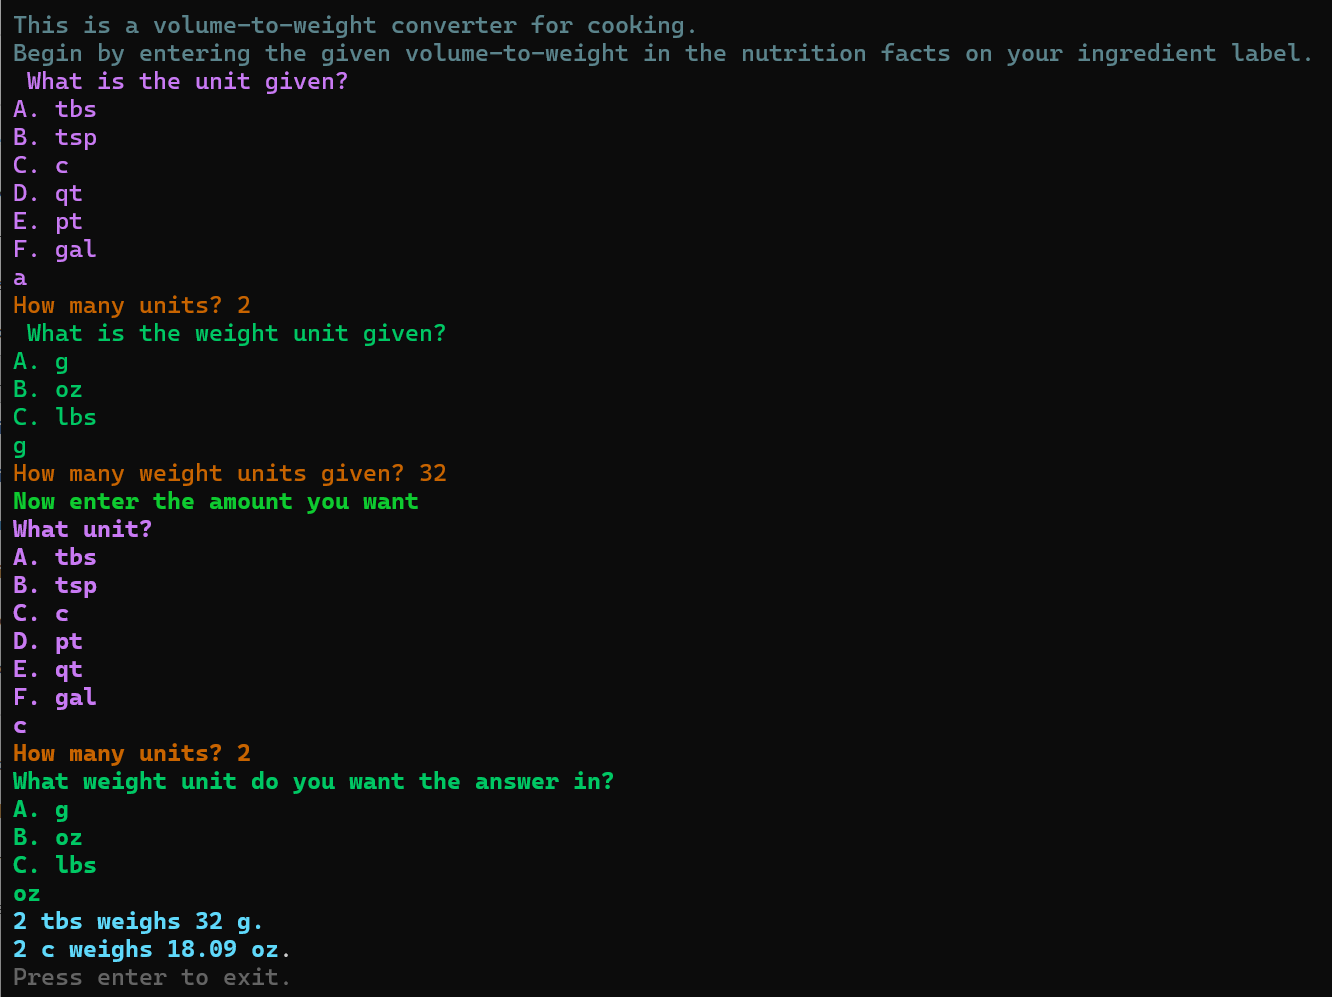
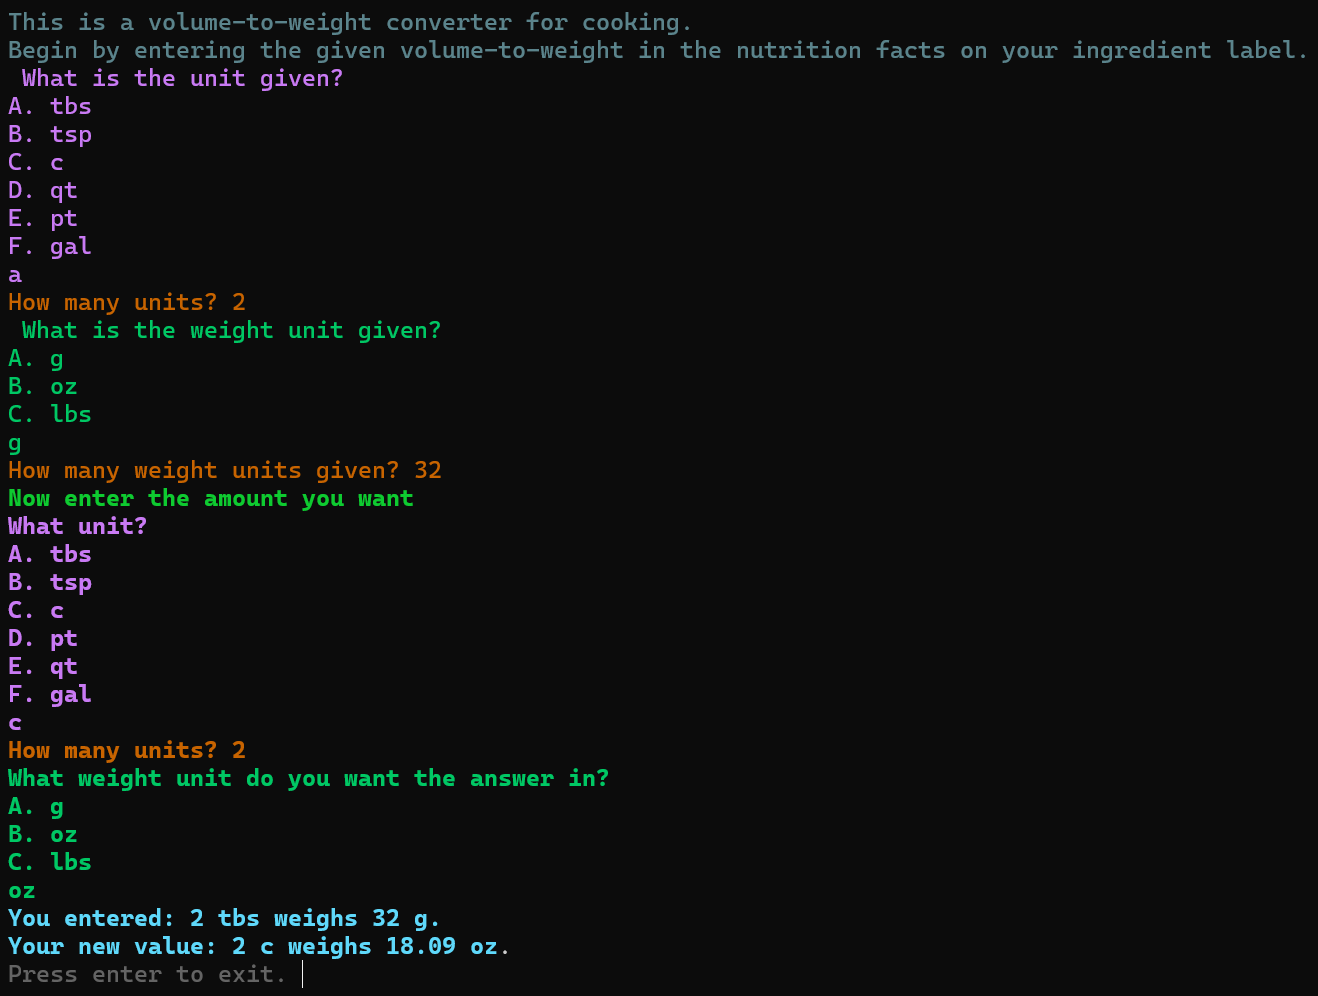
Add clarification on results answer.

Changed region(s): [[0.0, 0.0, 0.9954, 0.996]]

diff --git a/code/weight_converter.py b/code/weight_converter.py
@@ -86,6 +86,9 @@ alpha = b * z_2
 
 alpha = unconvert_weight_unit(alpha, u)
 alpha = round(alpha, 2)
-print(f"{finish}{str(x_ORIGINAL)} {str(label_x_ORIGINAL)} weighs {str(y_ORIGINAL)} {str(label_y_ORIGINAL)}.")
-print(f"{str(z)} {str(label_z)} weighs {str(alpha)} {str(u)}{reset}.")
+if alpha == int(alpha):
+    alpha = int(alpha)
+
+print(f"{finish}You entered: {str(x_ORIGINAL)} {str(label_x_ORIGINAL)} weighs {str(y_ORIGINAL)} {str(label_y_ORIGINAL)}.")
+print(f"Your new value: {str(z)} {str(label_z)} weighs {str(alpha)} {str(u)}{reset}.")
 nothing = input(f"{grey}Press enter to exit. {reset}")